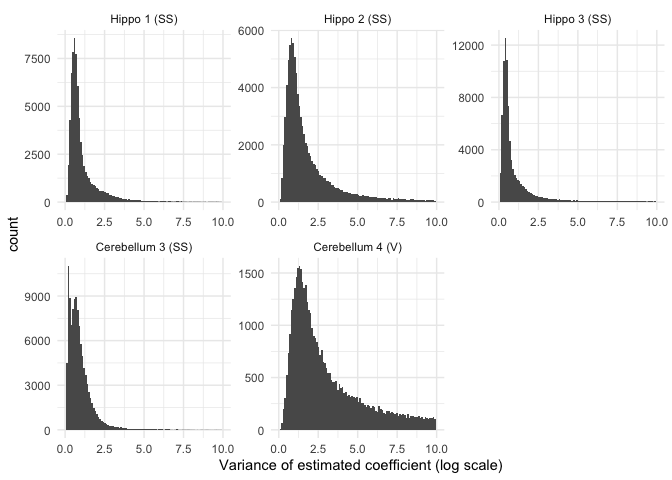
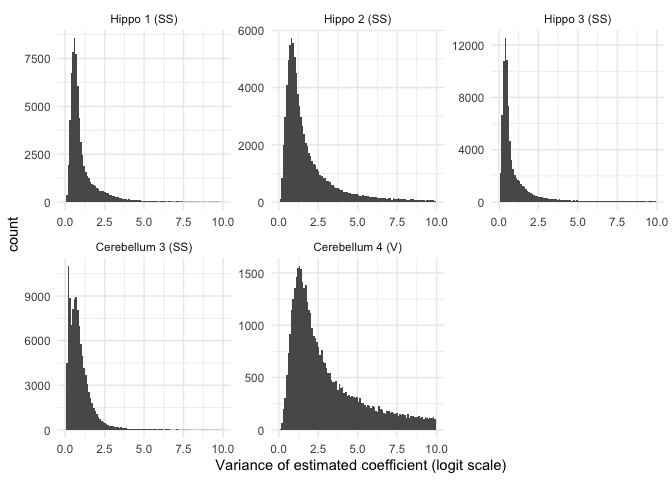
updated simulations md

Changed region(s): [[0.3125, 0.9375, 0.75, 1.0]]

diff --git a/analysis/03_simulations.md b/analysis/03_simulations.md
@@ -150,7 +150,7 @@ hippo1@de_results$gene_fits$mean_val |>
   facet_grid(Var2 ~ sample) +
   theme_minimal() + 
   xlim(c(-5,5)) +
-  xlab('Estimated coefficient (log scale)') 
+  xlab('Estimated coefficient (logit scale)') 
 ```
 
     Warning in melt(hippo1@de_results$gene_fits$mean_val): The melt generic in
@@ -199,7 +199,7 @@ cere3@de_results$gene_fits$mean_val |>
   facet_grid(Var2 ~ sample, scales='free') +
   theme_minimal() + 
   xlim(c(-5,5)) +
-  xlab('Estimated coefficient (log scale)') 
+  xlab('Estimated coefficient (logit scale)') 
 ```
 
     Warning in melt(cere3@de_results$gene_fits$mean_val): The melt generic in
@@ -250,7 +250,7 @@ hippo1@de_results$gene_fits$s_mat |>
   theme_minimal() +
   xlim(c(0,10)) +
   facet_wrap(sample ~ ., scales='free') +
-  xlab('Variance of estimated coefficient (log scale)')
+  xlab('Variance of estimated coefficient (logit scale)')
 ```
 
     Warning in melt(hippo1@de_results$gene_fits$s_mat): The melt generic in
